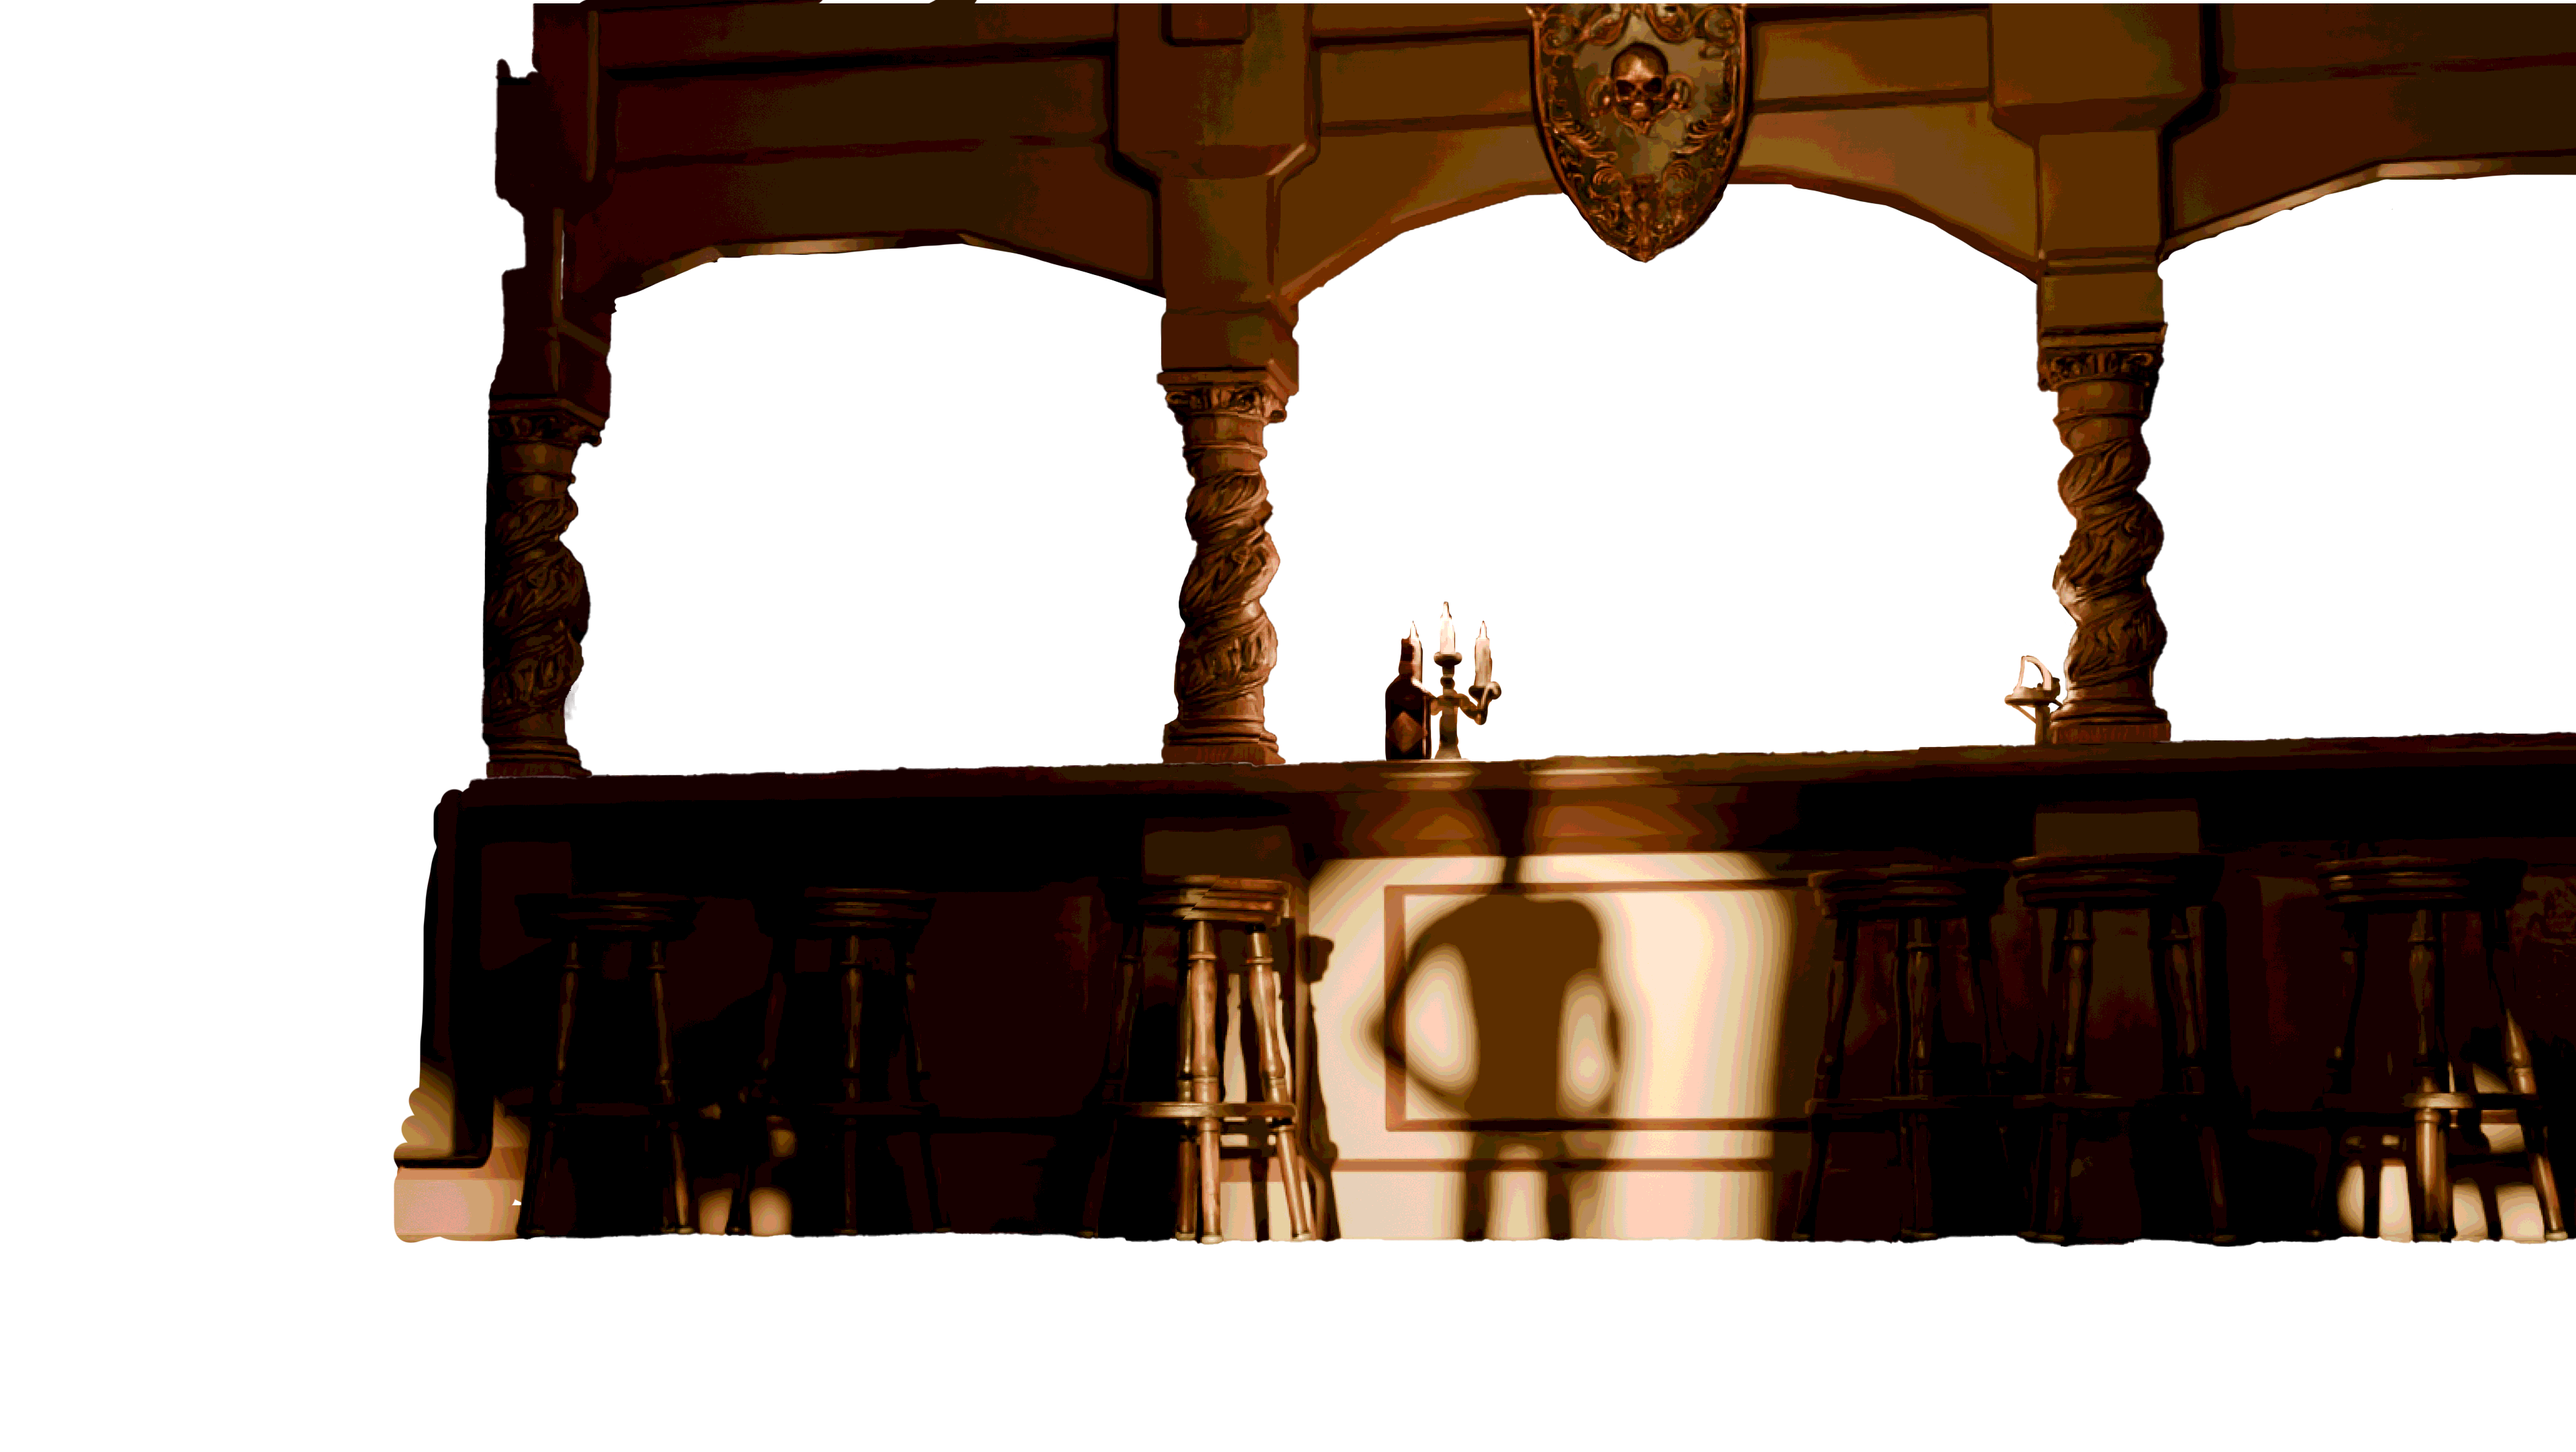
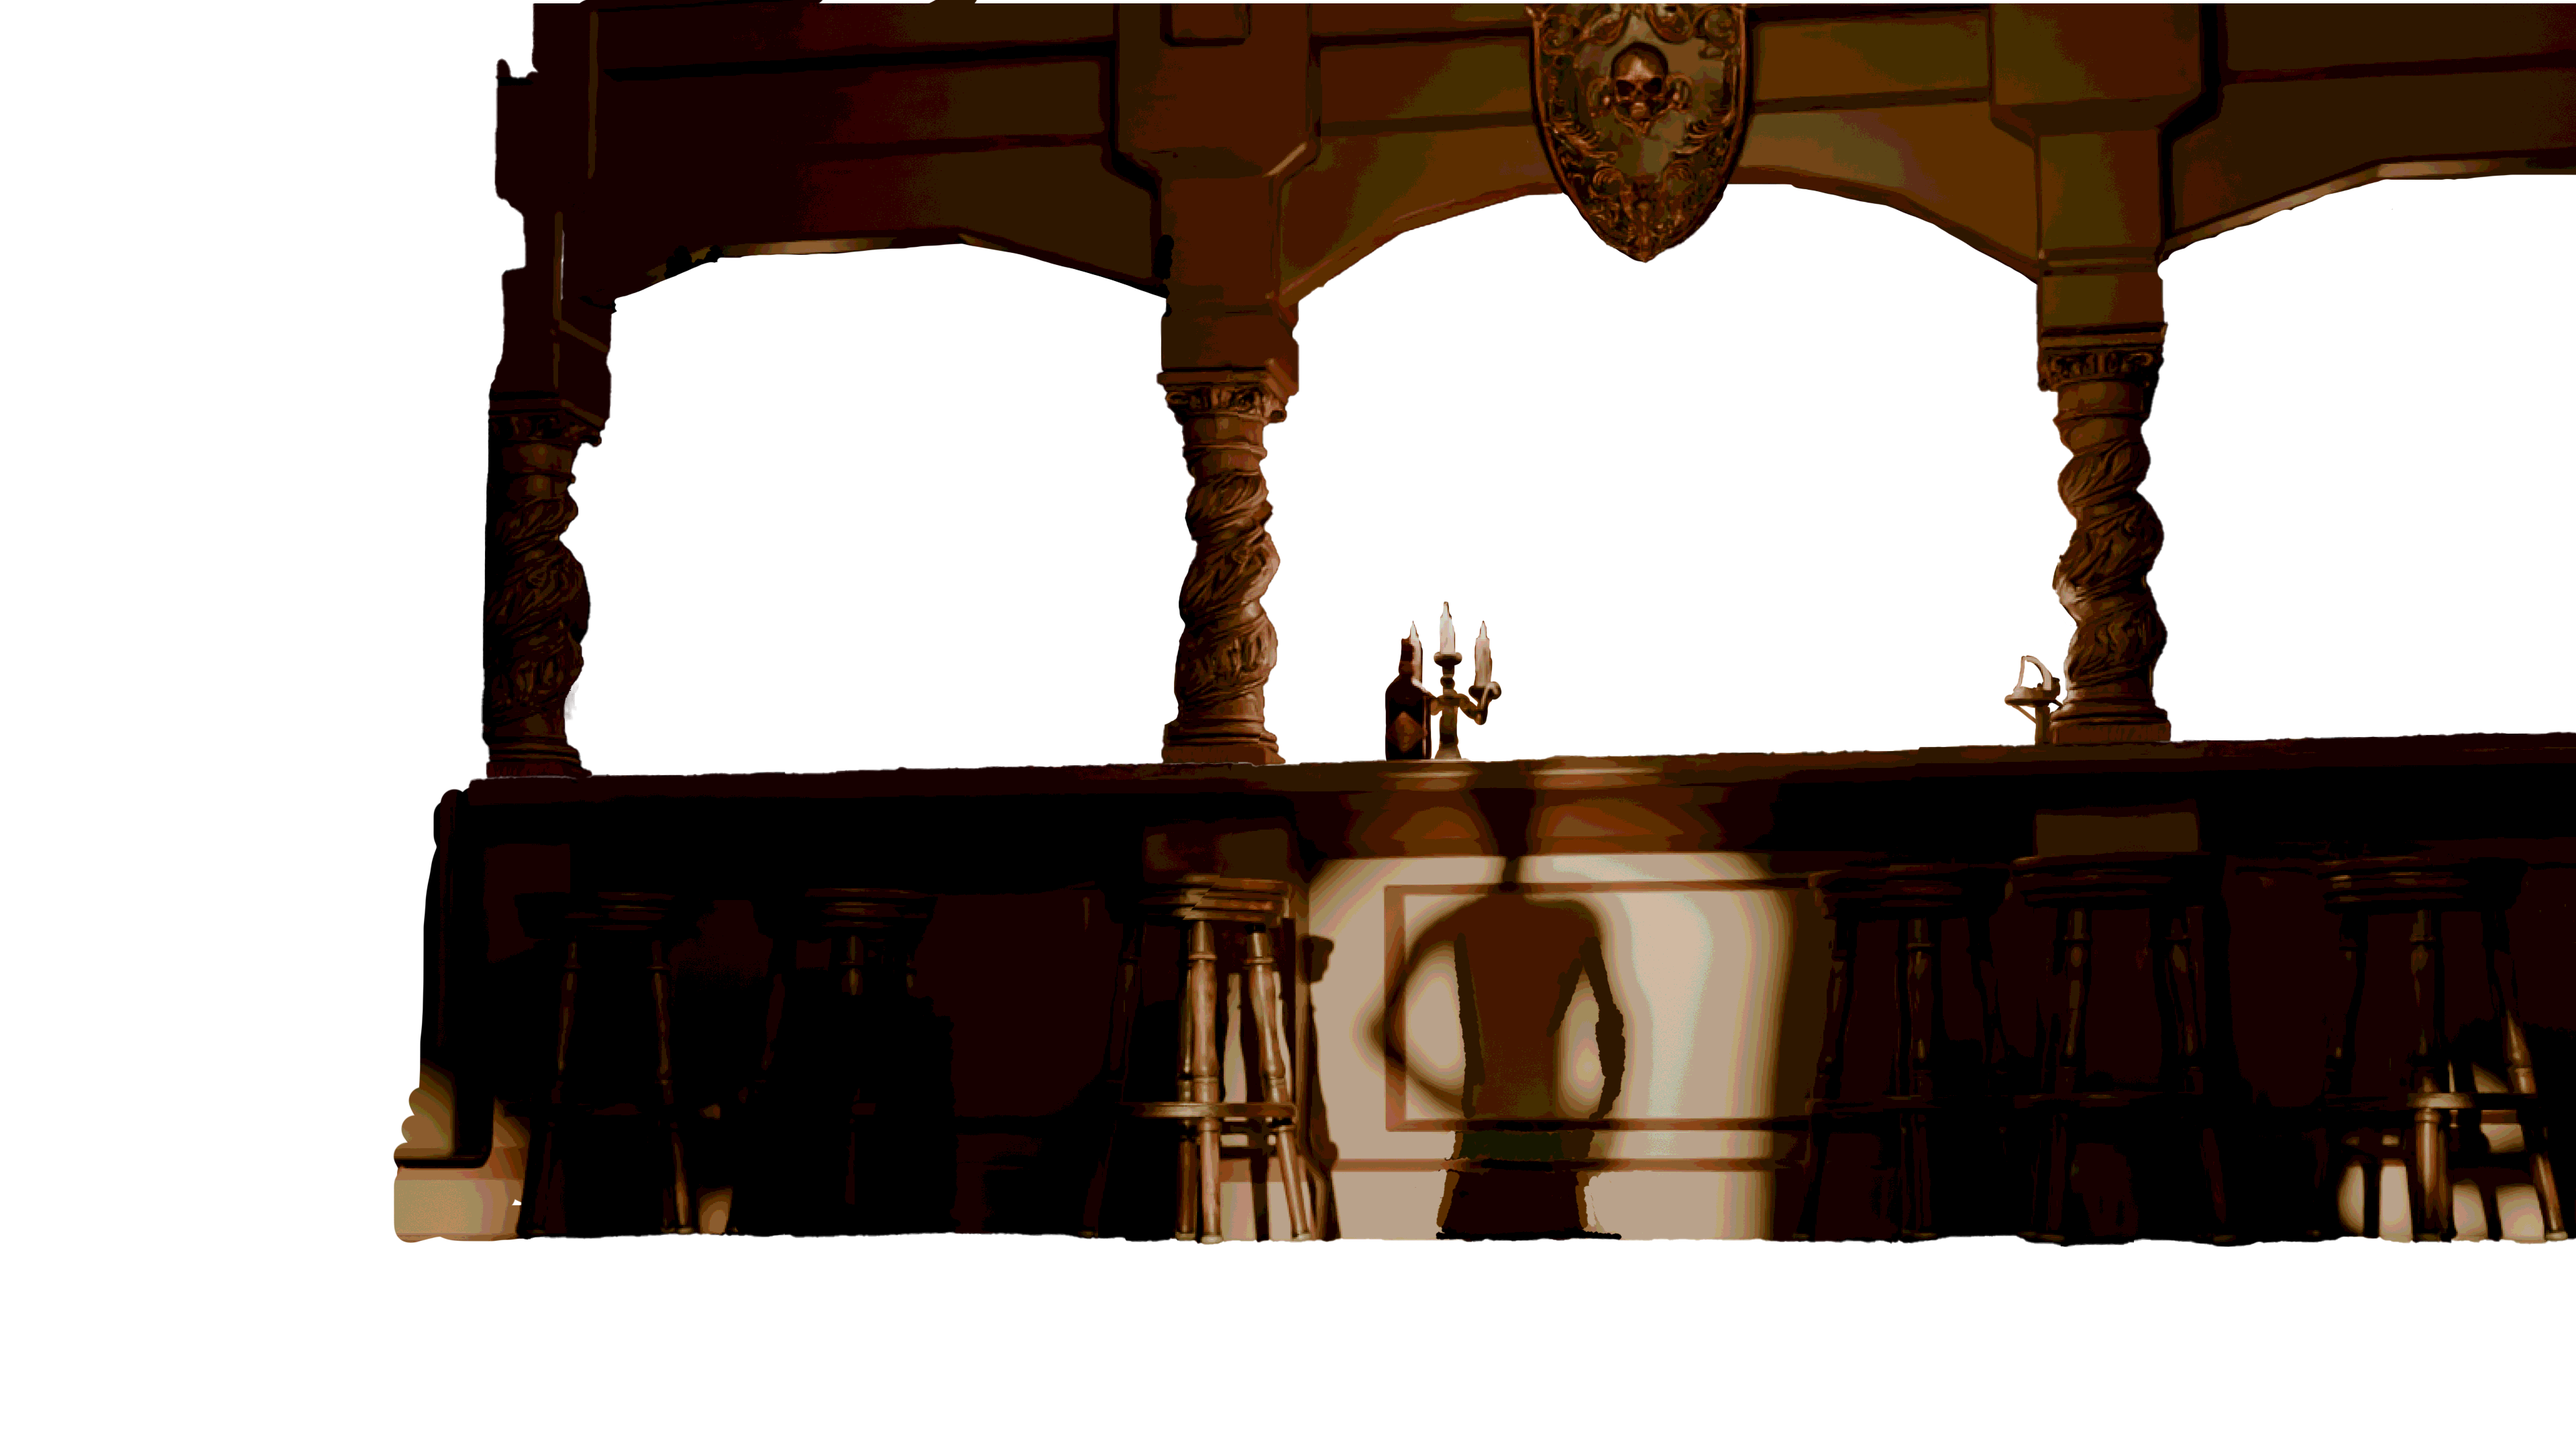
updated tutorial images

diff --git a/client/src/data/assets.tsx b/client/src/data/assets.tsx
@@ -314,7 +314,7 @@ const sceneBackgrounds: Record<SceneName, SceneData> = {
       { texture: TextureName.bg_demon_right_hand, shiftMultiplier: -0.01, renderOrder: 4, animatedIdle: 0.01 },
     ],
     items: [
-      { name: 'demon_left', color: '00ff00', description: 'Drink, forget this happened', mask: TextureName.bg_demon_left_hand_mask, renderOrder: 3 },
+      { name: 'demon_left', color: 'ff0000', description: 'Drink, forget this happened', mask: TextureName.bg_demon_left_hand_mask, renderOrder: 3 },
       { name: 'demon_right', color: '0000ff', description: 'Take the gun, become my patron', mask: TextureName.bg_demon_right_hand_mask, renderOrder: 4 },
     ],
     scaleAddon: 0.01
@@ -322,9 +322,9 @@ const sceneBackgrounds: Record<SceneName, SceneData> = {
   [SceneName.TutorialScene5]: {
     backgrounds: [
       { texture: TextureName.bg_resurrection_background, shiftMultiplier: -0.02, renderOrder: 0 },
-      { texture: TextureName.bg_resurrection_table, shiftMultiplier: -0.005, renderOrder: 1 },
-      { texture: TextureName.bg_resurrection_barkeep, shiftMultiplier: 0.005, renderOrder: 2 },
-      { texture: TextureName.bg_resurrection_player, shiftMultiplier: 0.015, renderOrder: 3 },
+      { texture: TextureName.bg_resurrection_table, shiftMultiplier: -0.01, renderOrder: 1 },
+      { texture: TextureName.bg_resurrection_barkeep, shiftMultiplier: -0.005, renderOrder: 2 },
+      { texture: TextureName.bg_resurrection_player, shiftMultiplier: 0.005, renderOrder: 3 },
     ],
     scaleAddon: 0.045
   },
